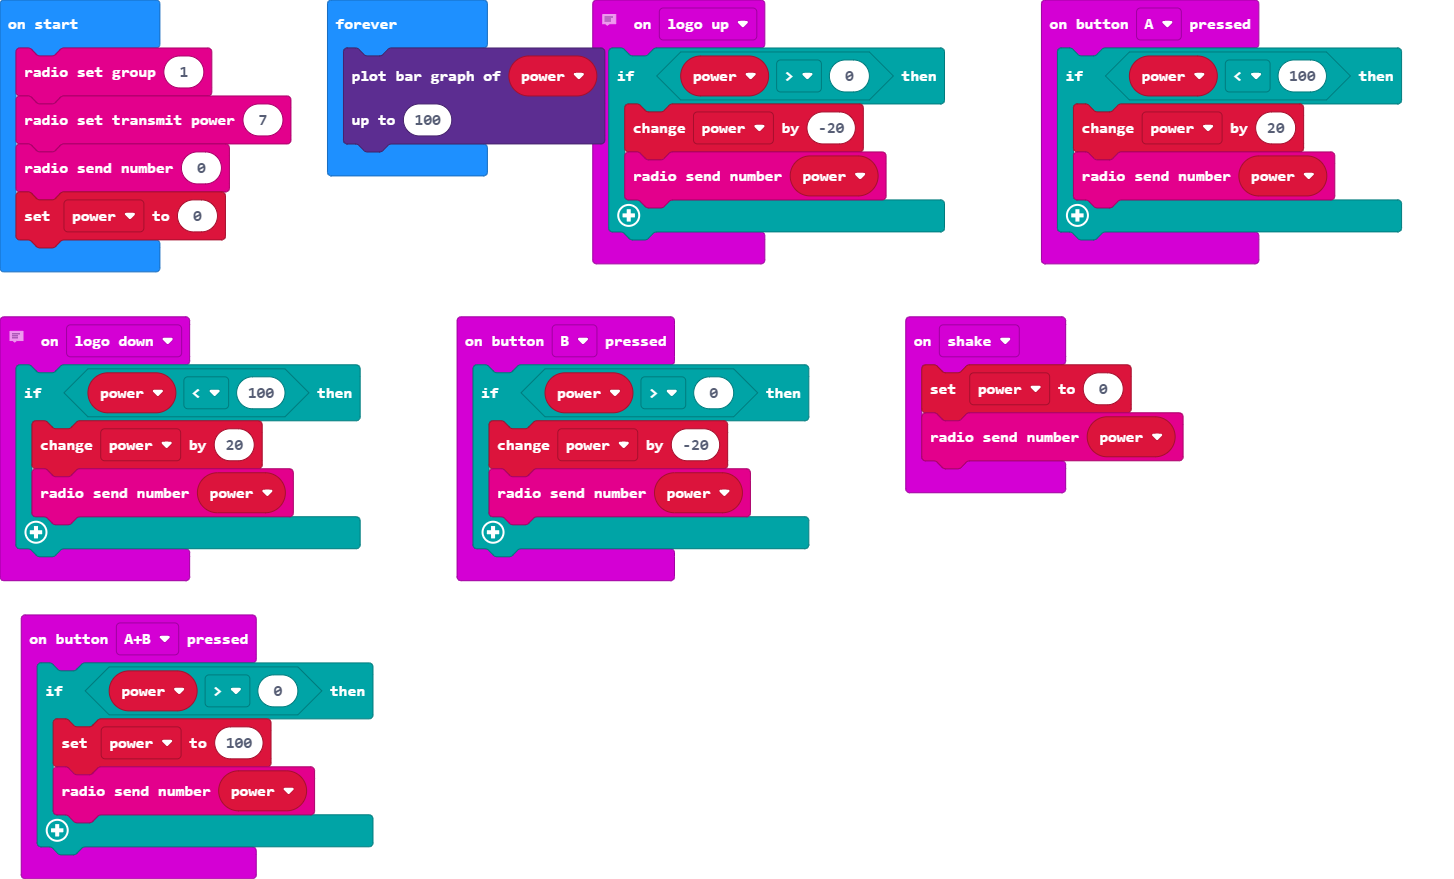
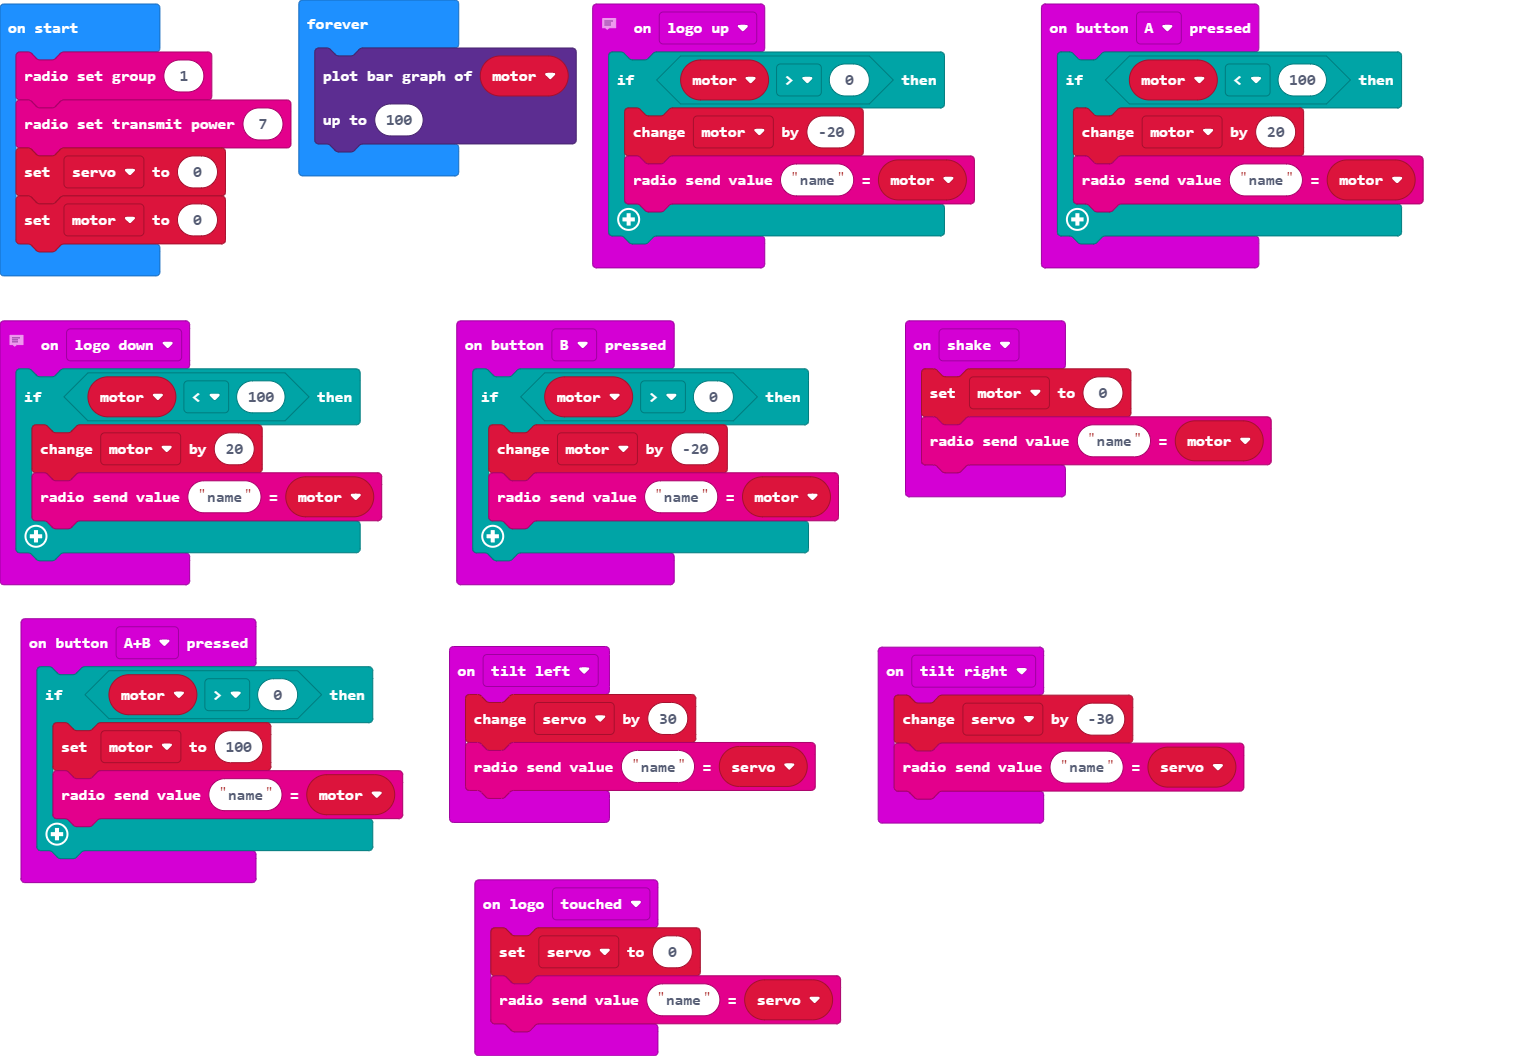
Update main.blocks, main.ts

diff --git a/main.ts b/main.ts
@@ -1,47 +1,60 @@
 input.onButtonPressed(Button.A, function () {
-    if (power < 100) {
-        power += 20
-        radio.sendNumber(power)
+    if (motor < 100) {
+        motor += 20
+        radio.sendValue("name", motor)
     }
 })
 // south
 input.onGesture(Gesture.LogoUp, function () {
-    if (power > 0) {
-        power += -20
-        radio.sendNumber(power)
+    if (motor > 0) {
+        motor += -20
+        radio.sendValue("name", motor)
     }
 })
+input.onGesture(Gesture.TiltLeft, function () {
+    servo += 30
+    radio.sendValue("name", servo)
+})
 input.onButtonPressed(Button.AB, function () {
-    if (power > 0) {
-        power = 100
-        radio.sendNumber(power)
+    if (motor > 0) {
+        motor = 100
+        radio.sendValue("name", motor)
     }
 })
 input.onButtonPressed(Button.B, function () {
-    if (power > 0) {
-        power += -20
-        radio.sendNumber(power)
+    if (motor > 0) {
+        motor += -20
+        radio.sendValue("name", motor)
     }
 })
 input.onGesture(Gesture.Shake, function () {
-    power = 0
-    radio.sendNumber(power)
+    motor = 0
+    radio.sendValue("name", motor)
+})
+input.onGesture(Gesture.TiltRight, function () {
+    servo += -30
+    radio.sendValue("name", servo)
 })
 // north
 input.onGesture(Gesture.LogoDown, function () {
-    if (power < 100) {
-        power += 20
-        radio.sendNumber(power)
+    if (motor < 100) {
+        motor += 20
+        radio.sendValue("name", motor)
     }
 })
-let power = 0
+input.onLogoEvent(TouchButtonEvent.Touched, function () {
+    servo = 0
+    radio.sendValue("name", servo)
+})
+let motor = 0
+let servo = 0
 radio.setGroup(1)
 radio.setTransmitPower(7)
-radio.sendNumber(0)
-power = 0
+servo = 0
+motor = 0
 basic.forever(function () {
     led.plotBarGraph(
-    power,
+    motor,
     100
     )
 })
